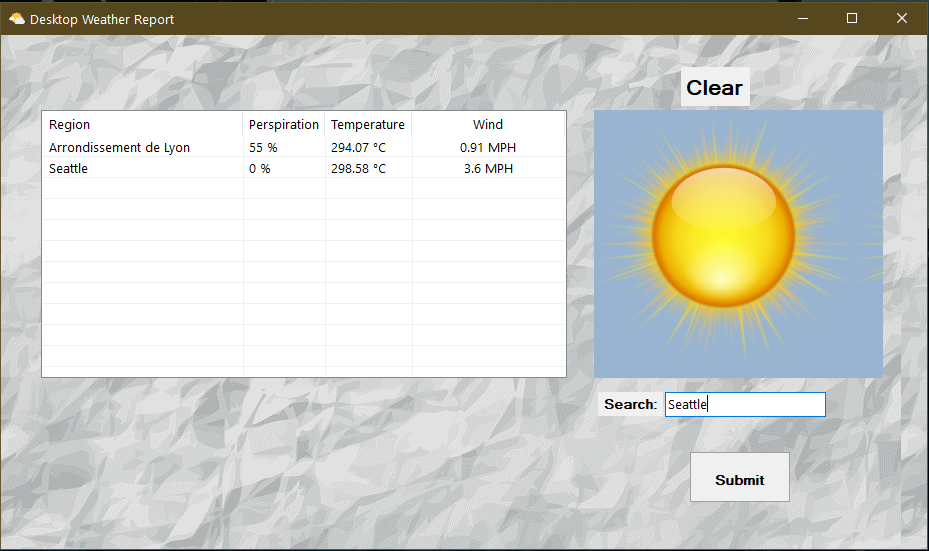
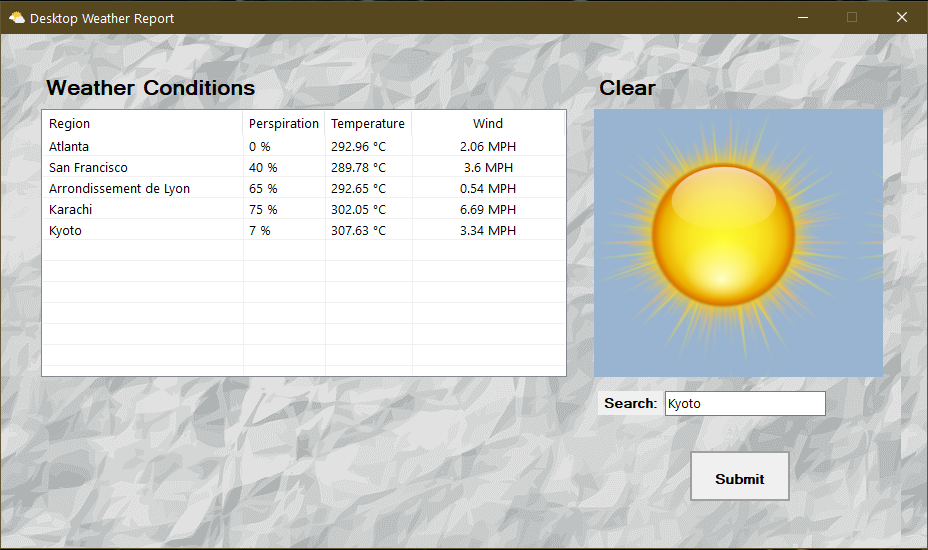
Modified UI and replaced README image file.

diff --git a/DesktopWeatherReport/DesktopWeatherReportForm.Designer.cs b/DesktopWeatherReport/DesktopWeatherReportForm.Designer.cs
@@ -37,6 +37,7 @@ namespace DesktopWeatherReport
             this.pictureBox1 = new System.Windows.Forms.PictureBox();
             this.label1 = new System.Windows.Forms.Label();
             this.label2 = new System.Windows.Forms.Label();
+            this.label3 = new System.Windows.Forms.Label();
             ((System.ComponentModel.ISupportInitialize)(this.pictureBox1)).BeginInit();
             this.SuspendLayout();
             // 
@@ -93,8 +94,9 @@ namespace DesktopWeatherReport
             // label1
             // 
             this.label1.AutoSize = true;
+            this.label1.BackColor = System.Drawing.Color.Transparent;
             this.label1.Font = new System.Drawing.Font("HoloLens MDL2 Assets", 19.69811F, ((System.Drawing.FontStyle)((System.Drawing.FontStyle.Bold | System.Drawing.FontStyle.Underline))), System.Drawing.GraphicsUnit.Point);
-            this.label1.Location = new System.Drawing.Point(680, 32);
+            this.label1.Location = new System.Drawing.Point(593, 33);
             this.label1.Name = "label1";
             this.label1.Padding = new System.Windows.Forms.Padding(0, 0, 0, 10);
             this.label1.Size = new System.Drawing.Size(77, 39);
@@ -105,6 +107,7 @@ namespace DesktopWeatherReport
             // label2
             // 
             this.label2.AutoSize = true;
+            this.label2.BackColor = System.Drawing.SystemColors.Control;
             this.label2.FlatStyle = System.Windows.Forms.FlatStyle.System;
             this.label2.Font = new System.Drawing.Font("HoloLens MDL2 Assets", 12.22642F, System.Drawing.FontStyle.Bold, System.Drawing.GraphicsUnit.Point);
             this.label2.Location = new System.Drawing.Point(597, 357);
@@ -115,12 +118,25 @@ namespace DesktopWeatherReport
             this.label2.Text = "Search:";
             this.label2.TextAlign = System.Drawing.ContentAlignment.MiddleCenter;
             // 
+            // label3
+            // 
+            this.label3.AutoSize = true;
+            this.label3.BackColor = System.Drawing.Color.Transparent;
+            this.label3.Font = new System.Drawing.Font("HoloLens MDL2 Assets", 19.69811F, ((System.Drawing.FontStyle)((System.Drawing.FontStyle.Bold | System.Drawing.FontStyle.Underline))), System.Drawing.GraphicsUnit.Point);
+            this.label3.Location = new System.Drawing.Point(40, 33);
+            this.label3.Name = "label3";
+            this.label3.Padding = new System.Windows.Forms.Padding(0, 0, 0, 10);
+            this.label3.Size = new System.Drawing.Size(222, 39);
+            this.label3.TabIndex = 7;
+            this.label3.Text = "Weather Conditions";
+            // 
             // DesktopWeatherReportForm
             // 
             this.AutoScaleDimensions = new System.Drawing.SizeF(7F, 17F);
             this.AutoScaleMode = System.Windows.Forms.AutoScaleMode.Font;
             this.BackgroundImage = ((System.Drawing.Image)(resources.GetObject("$this.BackgroundImage")));
             this.ClientSize = new System.Drawing.Size(926, 514);
+            this.Controls.Add(this.label3);
             this.Controls.Add(this.label2);
             this.Controls.Add(this.label1);
             this.Controls.Add(this.pictureBox1);
@@ -128,7 +144,11 @@ namespace DesktopWeatherReport
             this.Controls.Add(this.ErrorMessage);
             this.Controls.Add(this.WeatherTable);
             this.Controls.Add(this.SubmitBtn);
+            this.HelpButton = true;
             this.Icon = ((System.Drawing.Icon)(resources.GetObject("$this.Icon")));
+            this.MaximizeBox = false;
+            this.MaximumSize = new System.Drawing.Size(942, 555);
+            this.MinimumSize = new System.Drawing.Size(942, 555);
             this.Name = "DesktopWeatherReportForm";
             this.Text = "Desktop Weather Report";
             ((System.ComponentModel.ISupportInitialize)(this.pictureBox1)).EndInit();
@@ -146,6 +166,7 @@ namespace DesktopWeatherReport
         public System.Windows.Forms.Label label1;
         public System.Windows.Forms.PictureBox pictureBox1;
         private System.Windows.Forms.Label label2;
+        public System.Windows.Forms.Label label3;
     }
 }
 
